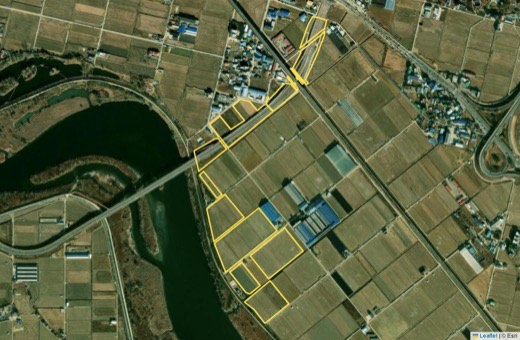
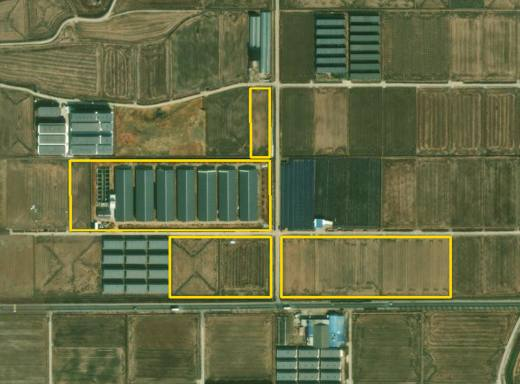
설명 카드 사례를 경기 화성 후보 공간으로 — 지목상 농지에 건물이 들어선 필지가 빠지는 모습

diff --git a/assets/nf.js b/assets/nf.js
@@ -44,14 +44,14 @@
     const box = document.createElement('span');
     box.id = 'nf-chip'; box.setAttribute('role', 'group'); box.setAttribute('aria-label', '값 기준');
     box.style.cssText = 'display:inline-flex;margin-left:10px;border:1px solid var(--line,#cfd6cf);border-radius:16px;overflow:hidden;vertical-align:middle;white-space:nowrap';
-    // 커서를 올리면 뜨는 설명 카드 — 같은 곳(경기 평택 후보 공간)의 전후 위성사진
+    // 커서를 올리면 뜨는 설명 카드 — 같은 곳(경기 화성 후보 공간)의 전후 위성사진
     const TIP = {
       parcel: {title: '지목 기준 — 넓게 잡은 값', img: 'assets/nf_hover_jimok.jpg',
         lines: ['지목상 농지(전·답·과수원) 필지를 모두 셈', '도로·건물·숲이 된 필지도 들어 있음'],
-        cap: '노란 선 = 지목상 농지 필지 전부(고속도로 아래 띠 필지 포함)'},
+        cap: '노란 선 = 지목상 농지 필지 전부(건물이 들어선 필지 포함)'},
       sat: {title: '위성 기준 — 보수적으로 잡은 값', img: 'assets/nf_hover_sat.jpg',
         lines: ['위성사진 검토로 도로·건물·숲·물가 필지를 뺌', '휴경지 등을 함께 뺐을 수 있음', '검토 범위: 진흥구역 개방 조건 · 법인·국공유 · 1MW 이상 후보 공간'],
-        cap: '파란 칠 = 남긴 농지 · 노란 점선 = 뺀 비농지 필지'}
+        cap: '파란 칠 = 남긴 농지 · 빨간 칠 = 뺀 필지(건물이 들어선 땅)'}
     };
     const pop = document.createElement('div');
     pop.id = 'nf-tip'; pop.setAttribute('role', 'tooltip');
@@ -62,7 +62,7 @@
       const t = TIP[k], r = el.getBoundingClientRect();
       pop.innerHTML = `<div style="font-weight:700;margin-bottom:6px">${t.title}</div>`
         + `<img src="${t.img}" alt="" style="display:block;width:100%;border-radius:6px;margin-bottom:6px">`
-        + `<div style="color:#5b6b60;font-size:11.5px;margin-bottom:6px">경기 평택 후보 공간 예 · ${t.cap}</div>`
+        + `<div style="color:#5b6b60;font-size:11.5px;margin-bottom:6px">경기 화성 후보 공간 예 · ${t.cap}</div>`
         + t.lines.map(s => `<div>· ${s}</div>`).join('')
         + '<div style="margin-top:6px;color:#5b6b60;font-size:11.5px">실제 설치 가능 면적은 두 값 사이일 가능성이 큼</div>';
       pop.style.display = 'block';
